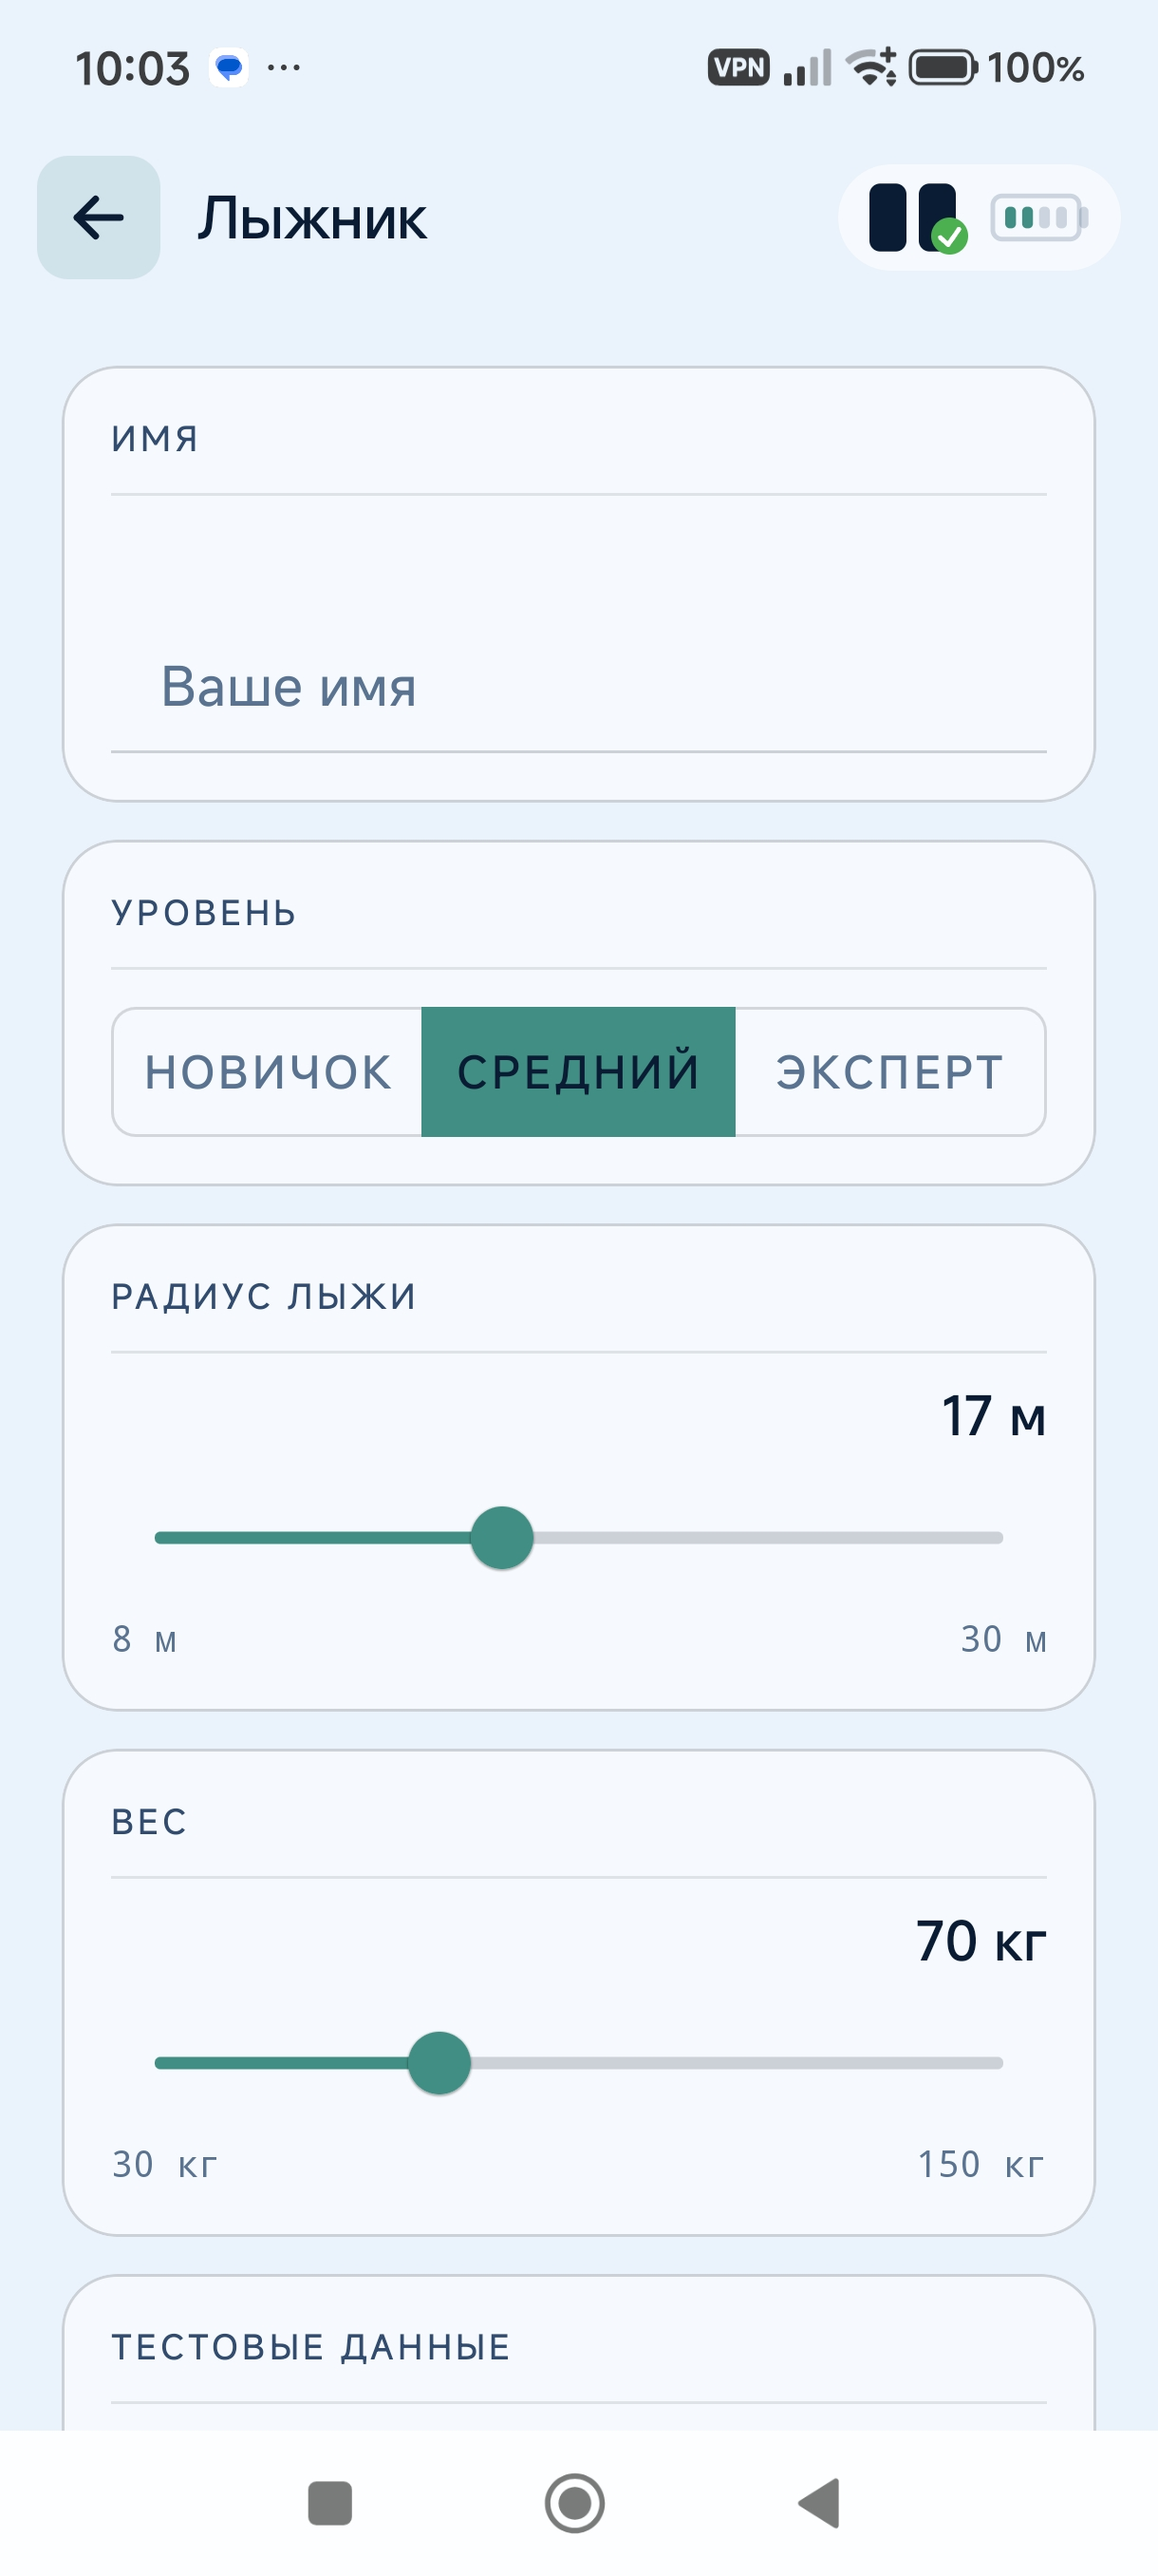
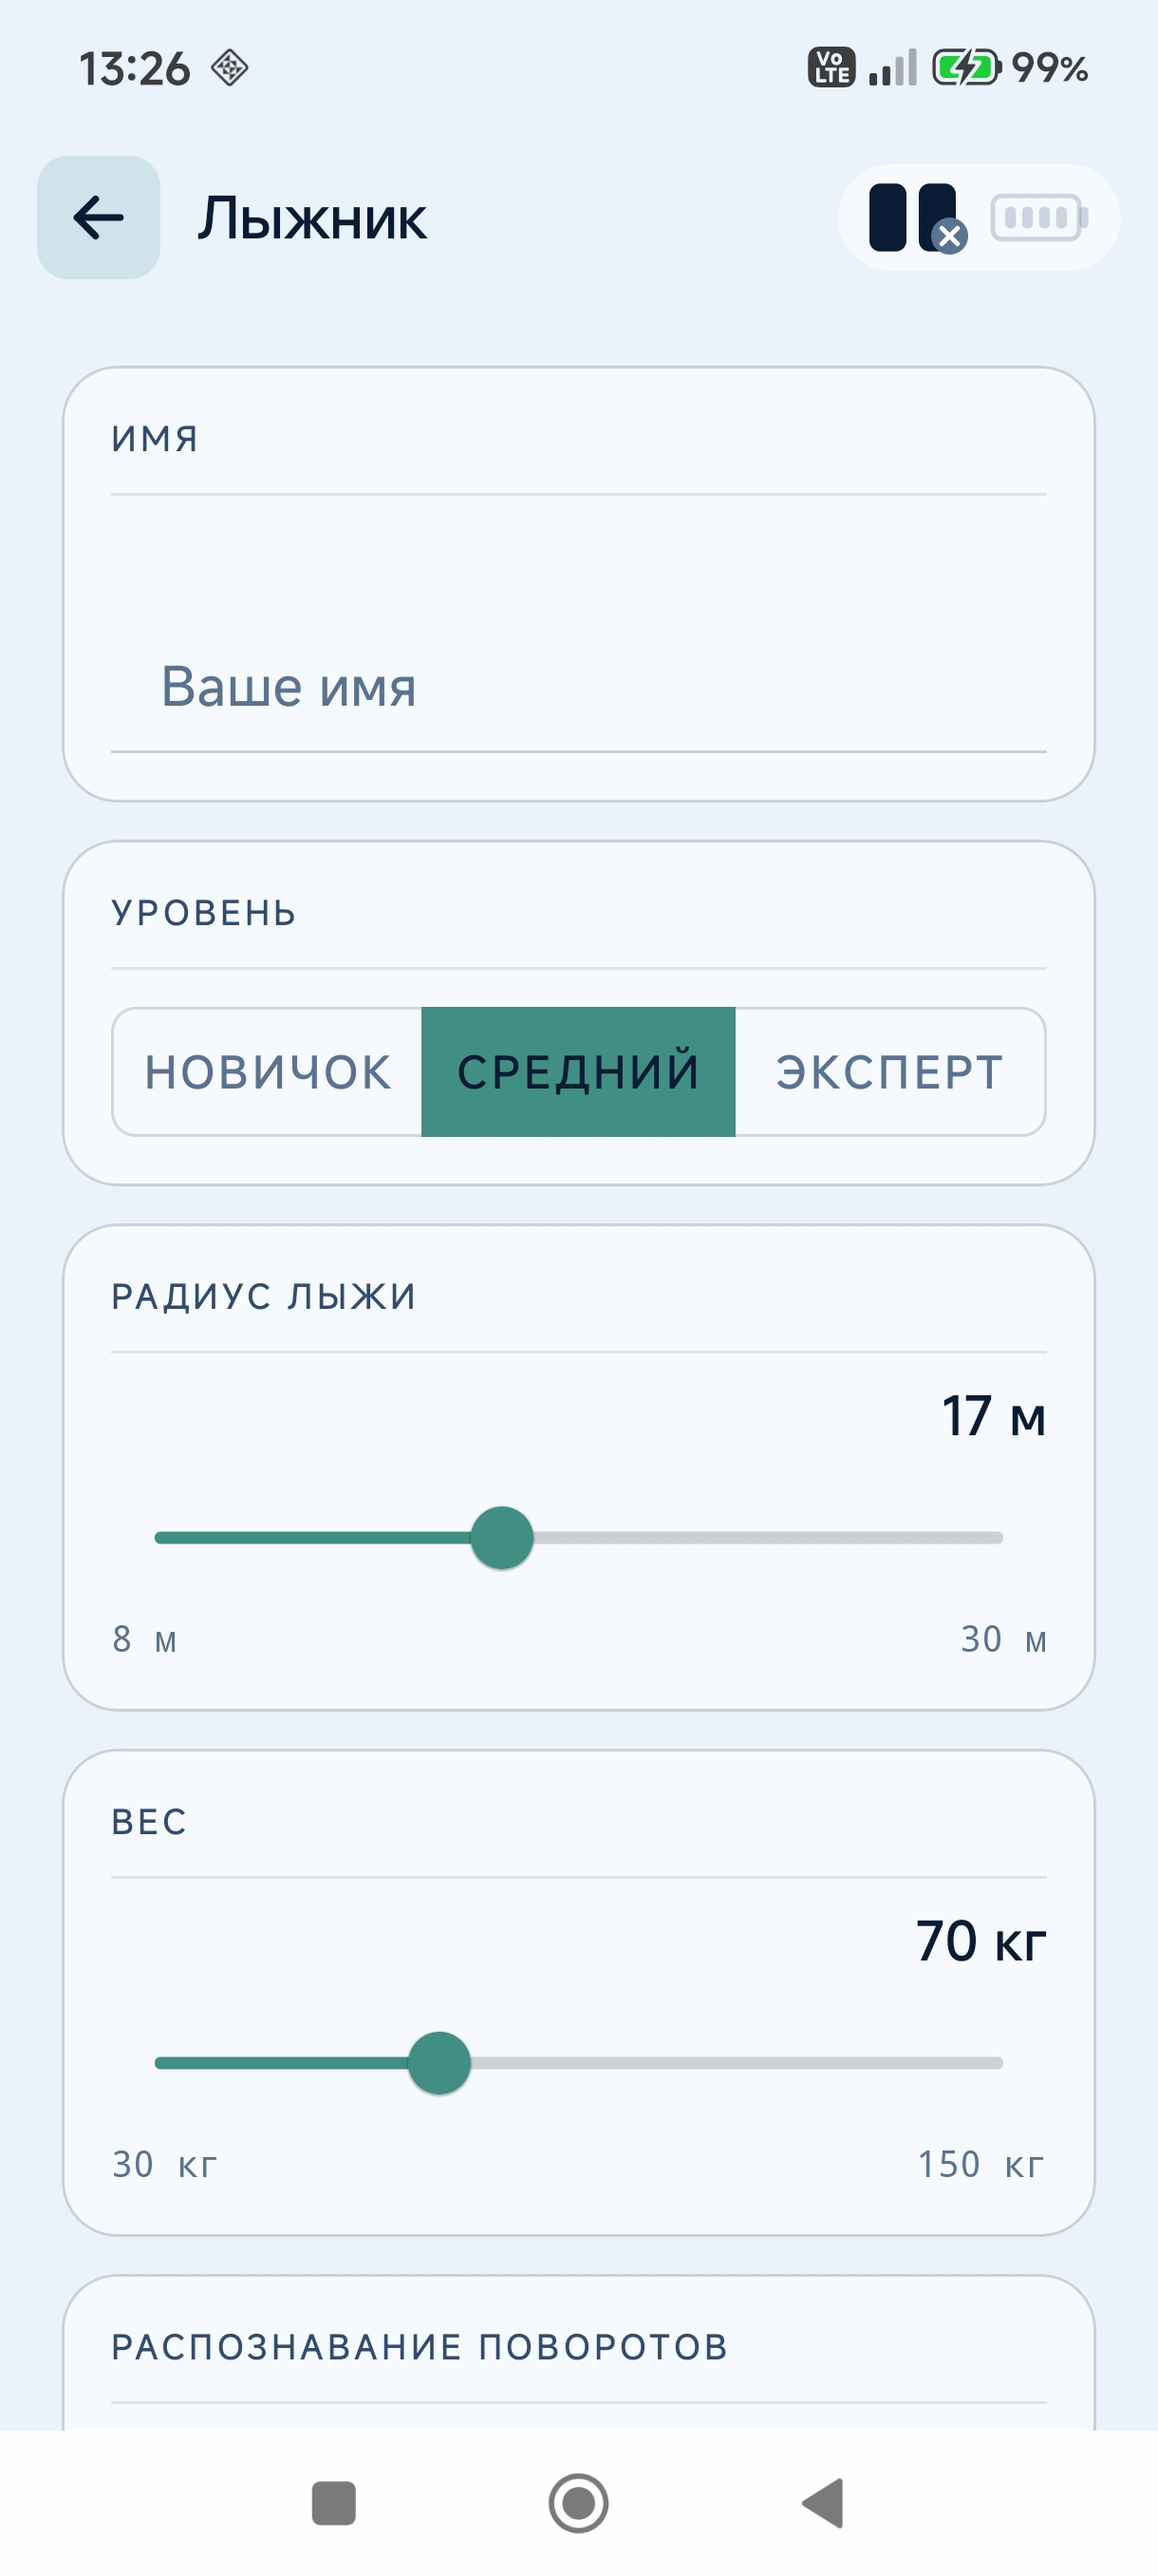
docs

diff --git a/docs/user-guide.md b/docs/user-guide.md
@@ -232,7 +232,14 @@ Score**, разбирает технику по метрикам и подска
   калибровочный. Приложение записывает его целиком, в конце спуска подбирает порог и задним числом
   считает по нему метрики и GF Score этого же спуска - он не пропадает.
 - **Порог сохраняется на телефоне** отдельно для каждой техники и дальше используется сразу, с
-  первого поворота. Второй раз калибровка для этой техники не выполняется.
+  первого поворота.
+- **Порог подстраивается после каждого спуска.** В конце спуска приложение подбирает порог заново и
+  сдвигает сохранённый на 30% в его сторону. Один неудачный спуск почти не влияет, а если поменялась
+  техника, ботинки или крепления, порог подстроится примерно за 5 спусков. Сам спуск считается по
+  порогу, с которым он начался.
+- **Сбросить калибровку** можно в профиле лыжника (раздел [3](#3-профиль-лыжника)) - кнопка
+  **«Сбросить»** в карточке «Распознавание поворотов». После сброса следующий спуск в каждой
+  технике снова будет калибровочным. Это полезно, если на телефоне катается другой лыжник.
 - **Если порог подобрать не удалось** (например, на спуске было мало поворотов или они были совсем
   пологие) - у этого спуска не будет метрик и GF Score, а калибровка повторится на следующем спуске
   в той же технике. Для надёжной калибровки проедьте первый спуск обычными, выраженными поворотами -
@@ -252,6 +259,7 @@ Score**, разбирает технику по метрикам и подска
 | **Уровень**              | задаёт порог «навык освоен» (7 / 17 / 27 из 30), рекомендации после спуска и доступные техники |
 | **Радиус лыжи** (8–30 м) | радиус бокового выреза ваших лыж - в расчёте метрик карвинга                                   |
 | **Вес** (30–150 кг)      | оценка калорий                                                                                 |
+| **Распознавание поворотов** | кнопка «Сбросить» - порог подбирается заново (раздел [2.4](#24-калибровочный-спуск---настройка-распознавания-поворотов)) |
 
 **Новичок** и **Средний** выбираются вручную. **Эксперт** присваивается автоматически, когда
 прогресс навыков достигнут по всем трём дисциплинам - вручную его выбрать нельзя.
@@ -263,7 +271,7 @@ Score**, разбирает технику по метрикам и подска
 > прогрессу по навыкам: достаточно переключить профиль на «Средний», и обе техники сразу станут
 > доступны.
 
-![Профиль лыжника - вес](assets/user-guide/10-skier-profile-scroll.jpg)
+![Профиль лыжника - вес и распознавание поворотов](assets/user-guide/10-skier-profile-scroll.jpg)
 
 > Экспорт/импорт данных и полный сброс - в разделе [13](#13-настройки-приложения), не здесь.
 
